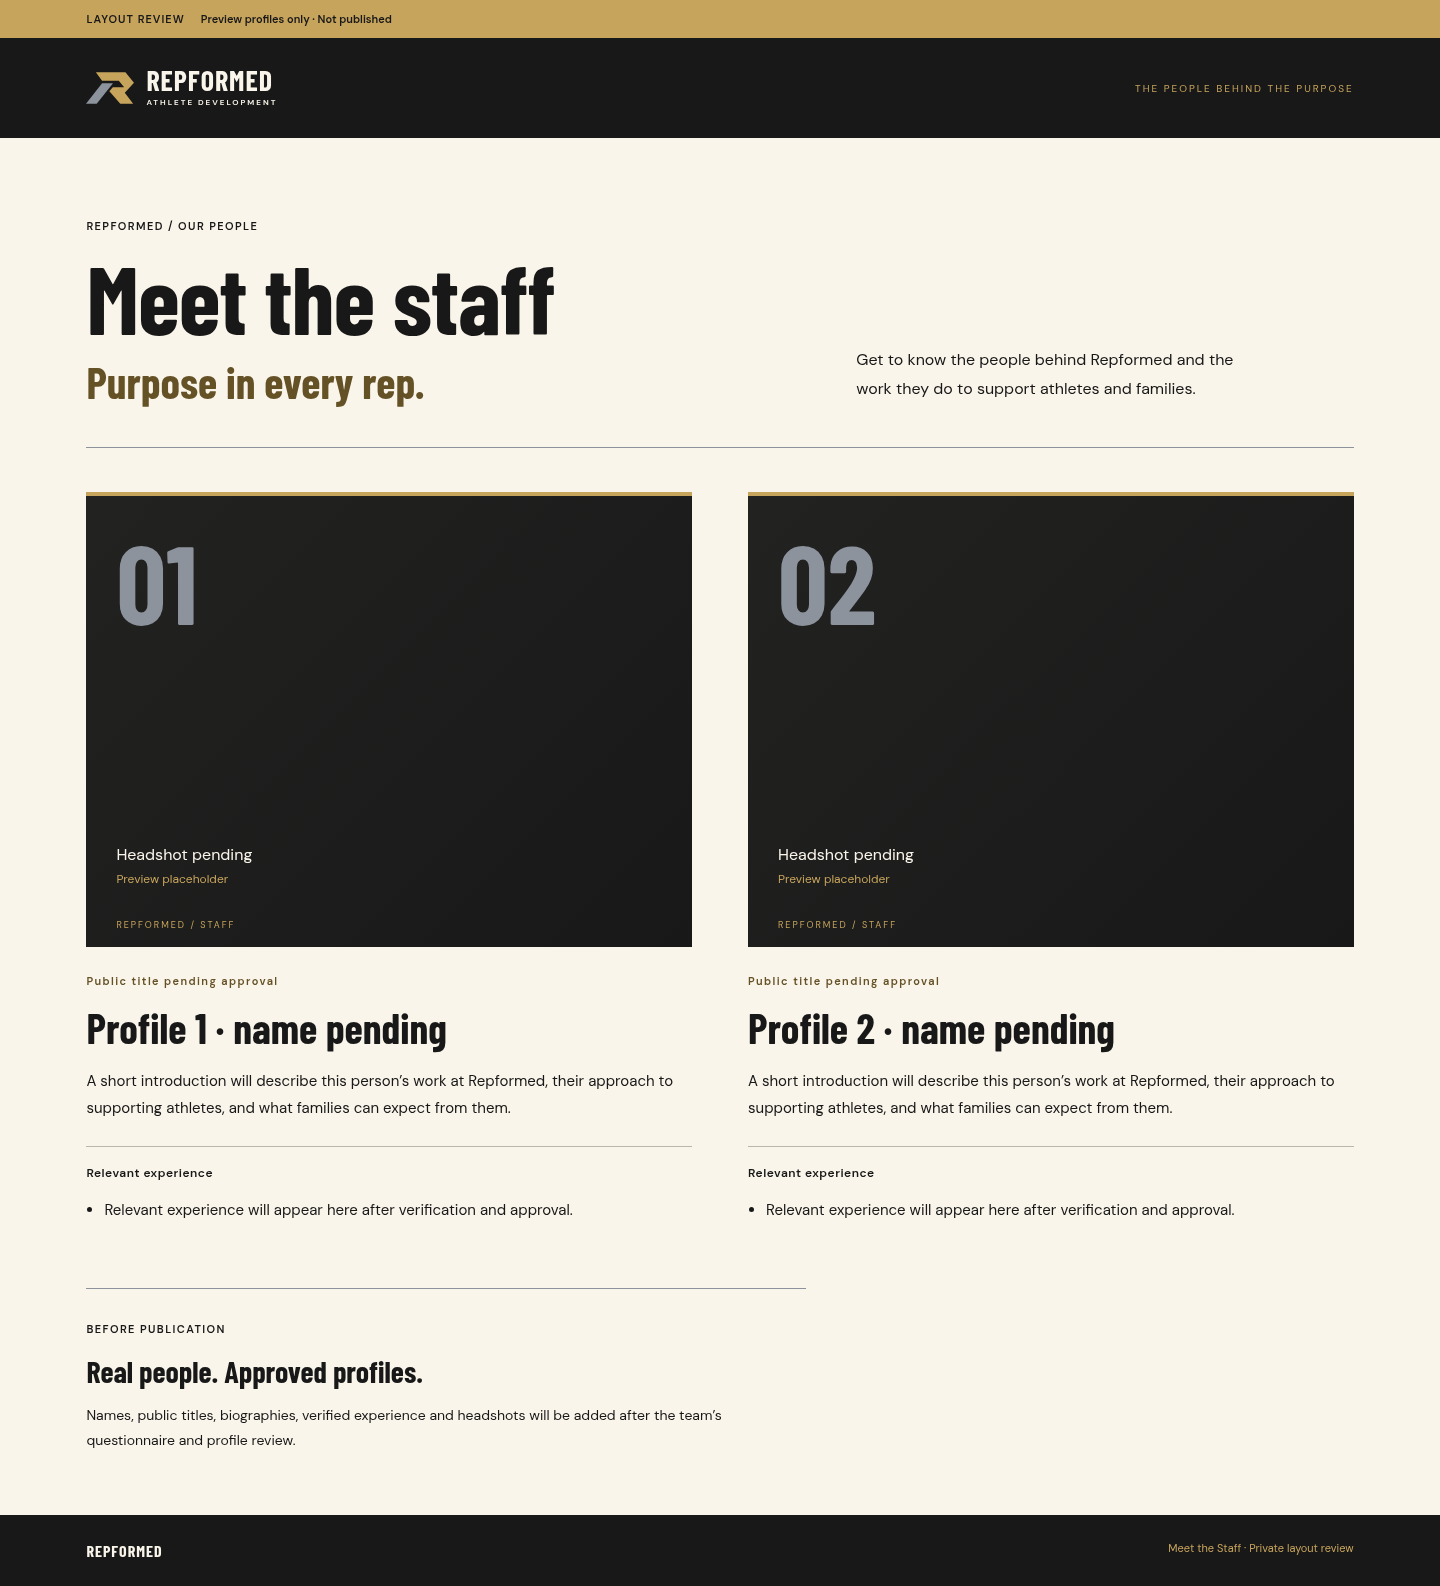
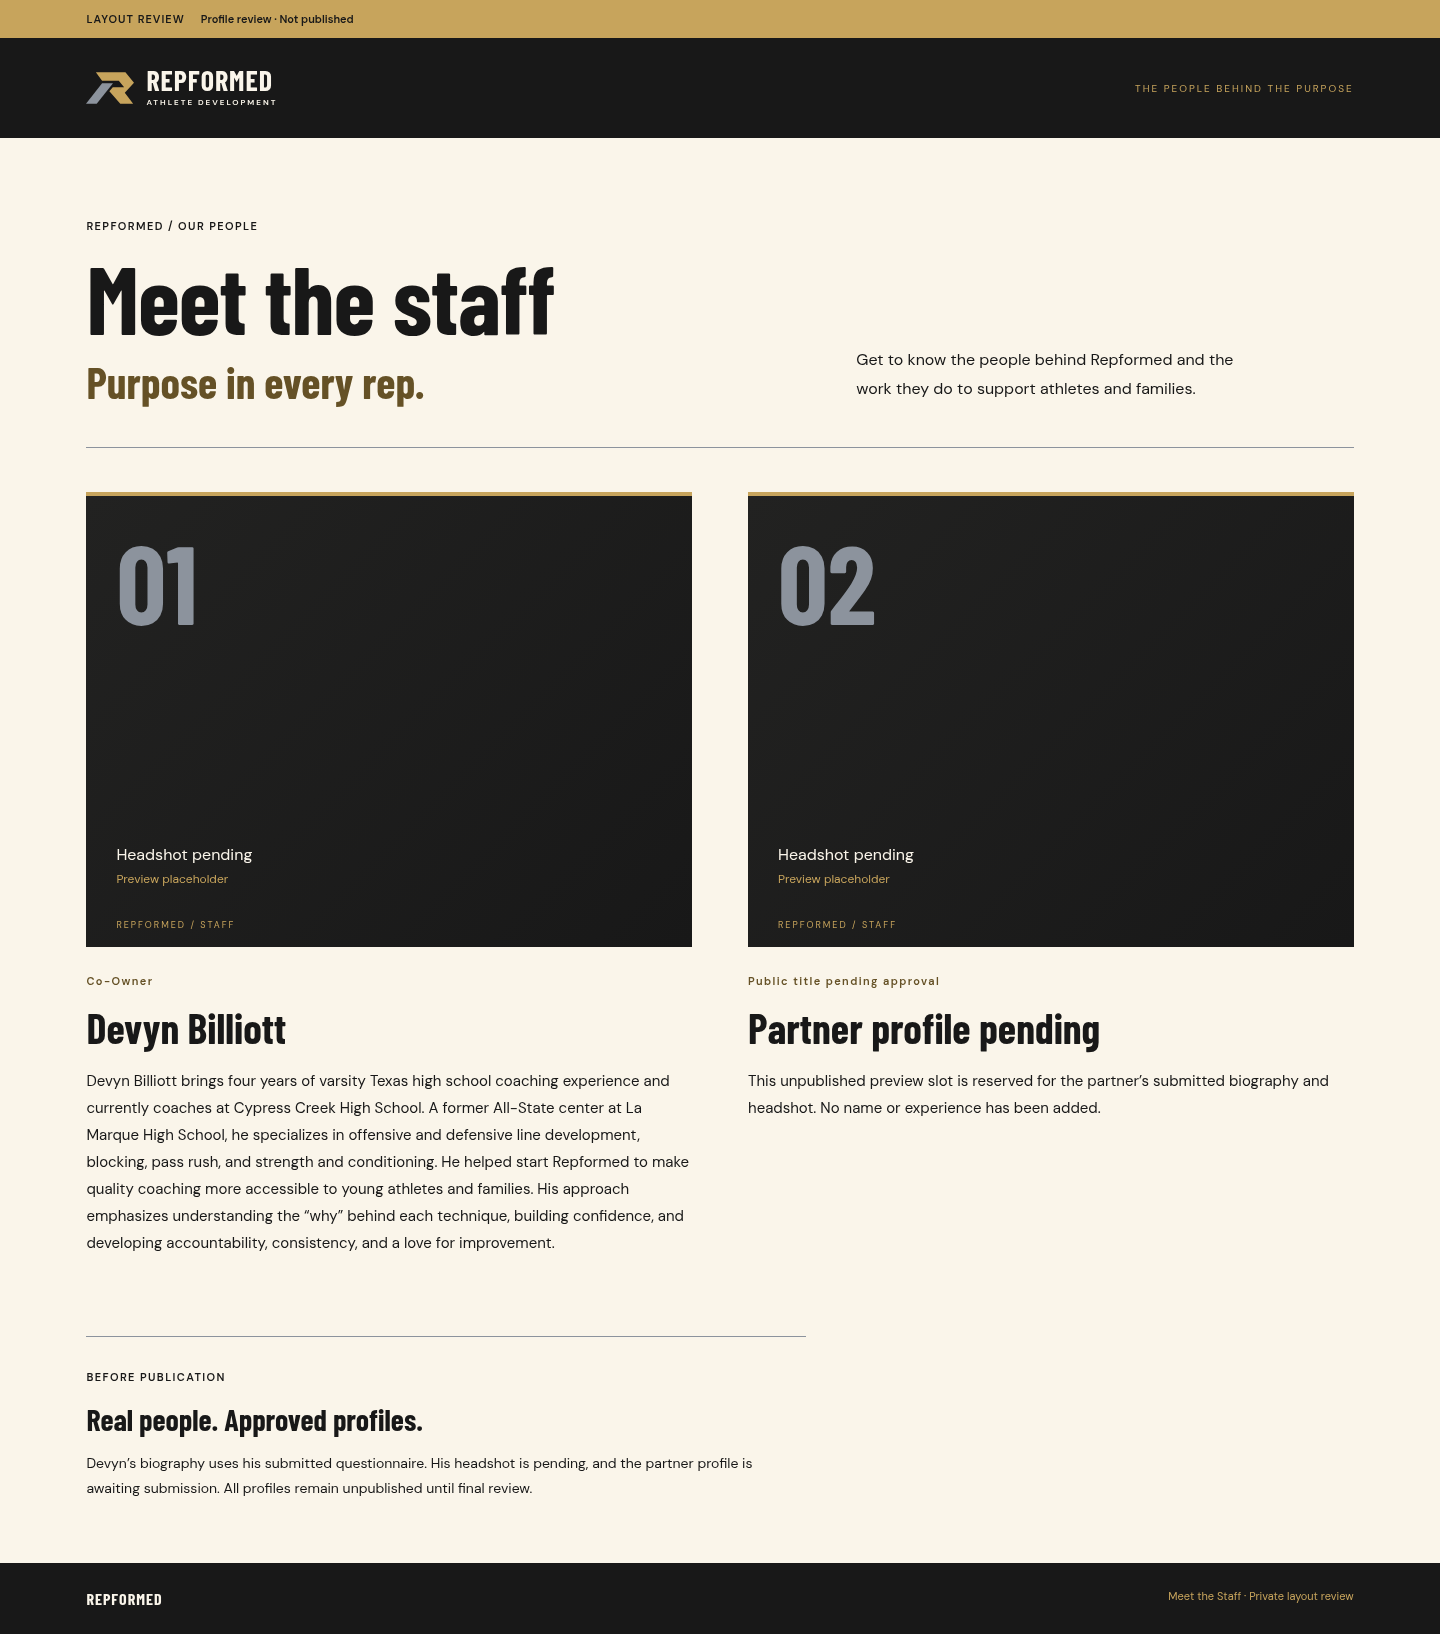
Add Devyn submitted biography to unpublished staff preview

diff --git a/preview/meet-the-staff/profiles.ts b/preview/meet-the-staff/profiles.ts
@@ -7,13 +7,21 @@ export type PublicStaffProfile = {
   photo?: { src: string; alt: string };
 };
 
-// Review fixtures only. Never connect this list to account records or production.
-export const previewProfiles: PublicStaffProfile[] = [1, 2].map((number) => ({
-  id: `preview-${number}`,
-  name: `Profile ${number} · name pending`,
-  title: "Public title pending approval",
-  bio: "A short introduction will describe this person’s work at Repformed, their approach to supporting athletes, and what families can expect from them.",
-  experience: [
-    "Relevant experience will appear here after verification and approval.",
-  ],
-}));
+// Public content only. Claims are self-reported in Devyn’s submitted form,
+// not independently verified. This entire entry point remains unpublished.
+export const previewProfiles: PublicStaffProfile[] = [
+  {
+    id: "devyn-billiott",
+    name: "Devyn Billiott",
+    title: "Co-Owner",
+    bio: "Devyn Billiott brings four years of varsity Texas high school coaching experience and currently coaches at Cypress Creek High School. A former All-State center at La Marque High School, he specializes in offensive and defensive line development, blocking, pass rush, and strength and conditioning. He helped start Repformed to make quality coaching more accessible to young athletes and families. His approach emphasizes understanding the “why” behind each technique, building confidence, and developing accountability, consistency, and a love for improvement.",
+    experience: [],
+  },
+  {
+    id: "partner-pending",
+    name: "Partner profile pending",
+    title: "Public title pending approval",
+    bio: "This unpublished preview slot is reserved for the partner’s submitted biography and headshot. No name or experience has been added.",
+    experience: [],
+  },
+];

diff --git a/preview/meet-the-staff/MeetTheStaff.tsx b/preview/meet-the-staff/MeetTheStaff.tsx
@@ -7,7 +7,7 @@ export function MeetTheStaff({ profiles }: { profiles: PublicStaffProfile[] }) {
         Skip to staff profiles
       </a>
       <aside className="review-banner" aria-label="Preview status">
-        LAYOUT REVIEW <span>Preview profiles only · Not published</span>
+        LAYOUT REVIEW <span>Profile review · Not published</span>
       </aside>
       <header className="staff-header">
         <div className="staff-brand">
@@ -81,8 +81,9 @@ export function MeetTheStaff({ profiles }: { profiles: PublicStaffProfile[] }) {
           <p className="eyebrow">BEFORE PUBLICATION</p>
           <h2 id="review-title">Real people. Approved profiles.</h2>
           <p>
-            Names, public titles, biographies, verified experience and headshots
-            will be added after the team’s questionnaire and profile review.
+            Devyn’s biography uses his submitted questionnaire. His headshot is
+            pending, and the partner profile is awaiting submission. All
+            profiles remain unpublished until final review.
           </p>
         </section>
       </main>

diff --git a/preview-tests/meet-the-staff.spec.ts b/preview-tests/meet-the-staff.spec.ts
@@ -12,6 +12,15 @@ for (const width of [320, 390, 768, 1440]) {
     );
     await expect(page.getByRole("article")).toHaveCount(2);
     await expect(page.getByText("Headshot pending")).toHaveCount(2);
+    const devyn = page.getByRole("article", { name: "Devyn Billiott" });
+    await expect(devyn.getByText("Co-Owner", { exact: true })).toBeVisible();
+    await expect(devyn.locator(".staff-bio")).toHaveCount(1);
+    await expect(devyn.locator(".staff-bio")).toContainText(
+      "Cypress Creek High School",
+    );
+    await expect(
+      page.getByRole("heading", { name: "Relevant experience" }),
+    ).toHaveCount(0);
     expect(
       await page.evaluate(
         () => document.documentElement.scrollWidth <= innerWidth,

diff --git a/docs/meet-the-staff/README.md b/docs/meet-the-staff/README.md
@@ -15,13 +15,13 @@ This is a separate entry point, excluded from the normal website build. No produ
 
 Uses the exact existing `public/brand/repformed-mark.svg`, DM Sans, Barlow Condensed and Option 09 palette. Two profiles stack on phones and form two columns on larger screens. Additional profiles wrap in the same grid. Headshots use a stable crop with face-friendly upper positioning. Profile text stays visible without expansion controls.
 
-All names, titles, bios, experience and photos are explicit review placeholders. No identity, credential or achievement is asserted. `PublicStaffProfile` includes only approved public content; never derive its title from an authenticated account role. Do not include private email, phone, access level or account identifiers.
+Devyn Billiott’s Co-Owner title and one-paragraph biography now come from his submitted questionnaire, as provided by the parent thread. Experience claims are self-reported and have not been independently verified. His exact uploaded headshot is still pending retrieval. The partner remains an explicitly unpublished pending slot with no invented identity or credentials. `PublicStaffProfile` includes only approved public content; never derive its title from an authenticated account role. Do not include private email, phone, access level or account identifiers.
 
 ## Proposed integration after approval
 
 Add a “Meet the staff” link in the homepage's existing `#about-repformed` section and introduce a dedicated public page. Keep “Meet the Staff” broad enough for owners, coaches, managers and support staff. Production navigation remains untouched in this draft.
 
-Before integration, replace fixtures with questionnaire responses and approved headshots; verify each experience claim, public title, spelling, photo consent and concise bio with each person. Remove preview-only banner/note only when real profiles are approved. Reuse the component's content contract, retain the semantic headings and responsive grid, then review it in the actual shared site shell. No backend changes are needed for this layout.
+Before integration, retrieve Devyn’s exact uploaded headshot and replace the partner slot with their questionnaire response and approved headshot; verify each experience claim, public title, spelling, photo consent and concise bio with each person. Remove preview-only banner/note only when real profiles are approved. Reuse the component's content contract, retain the semantic headings and responsive grid, then review it in the actual shared site shell. No backend changes are needed for this layout.
 
 ## Validation
 
@@ -38,3 +38,7 @@ Before integration, replace fixtures with questionnaire responses and approved h
 - [Desktop, 1440px](screenshots/desktop.png)
 
 These contain preview placeholders only. They are review artifacts, not published staff profiles.
+
+## Devyn profile revision
+
+Uses the exact biography supplied for review, as one paragraph. No repeated experience panel or private contact/account details. Awaiting the original headshot bytes before final visual completion; no substitute portrait is used. The partner has no invented name, title or credentials. Nothing is published.
